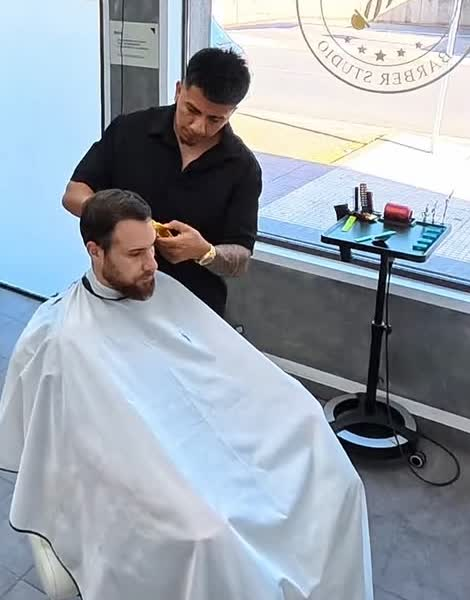
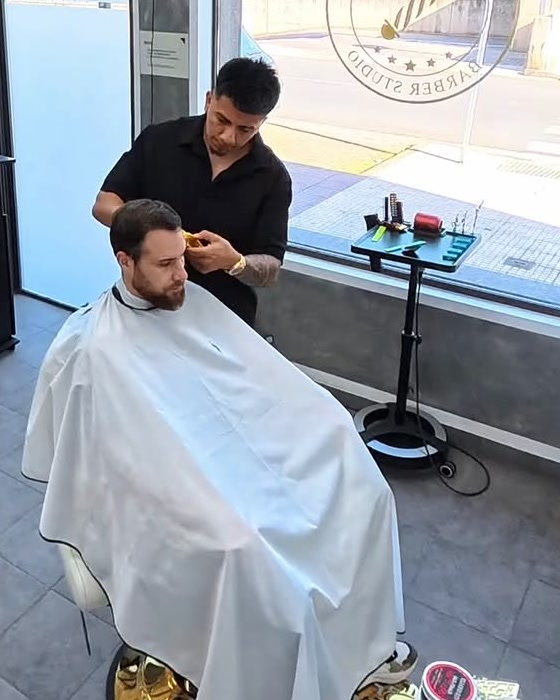
refactor: update 'estudio' section layout and styles
Enhanced the 'estudio' section in index.html with new class names and layout adjustments. Updated CSS for improved grid layout, added new styles for the portrait and credit elements, and adjusted image dimensions. Replaced the existing images with updated versions for better quality.

diff --git a/src/styles/app.css b/src/styles/app.css
@@ -389,37 +389,88 @@
   }
 
   /* -------------------------------------------------------------------------
-     Marcos que citan el doble filete del sello §13.3
+     #estudio — retrato editorial, velo §13.2, filete recto §13.3
      ------------------------------------------------------------------------- */
 
-  .frame-circle {
-    position: relative;
-    border-radius: 9999px;
-    padding: 10px;
-    background-color: var(--color-black);
-    border: 1px solid var(--color-gold-deep);
+  .estudio-layout {
+    display: grid;
+    gap: 3rem;
+    align-items: center;
   }
 
-  .frame-circle::after {
+  @media (width >= 1024px) {
+    .estudio-layout {
+      grid-template-columns: minmax(0, 1fr) minmax(0, 28rem);
+      gap: 5.5rem;
+      min-height: 32rem;
+    }
+  }
+
+  .estudio-rule {
+    width: 2.5rem;
+    margin-block: 1.75rem 2rem;
+  }
+
+  .estudio-credit {
+    margin-top: 2rem;
+    font-family: var(--font-display);
+    font-size: 0.75rem;
+    font-weight: 600;
+    letter-spacing: 0.22em;
+    text-transform: uppercase;
+    color: var(--color-gold-deep);
+  }
+
+  .estudio-portrait {
+    position: relative;
+    margin: 0 auto;
+    width: 100%;
+    max-width: 28rem;
+    padding: 8px;
+    background-color: var(--color-black);
+    border: 1px solid color-mix(in srgb, var(--color-gold-deep) 50%, transparent);
+  }
+
+  .estudio-portrait::before {
     content: "";
     position: absolute;
-    inset: 4px;
-    border-radius: 9999px;
-    border: 1px solid color-mix(in srgb, var(--color-gold-deep) 55%, transparent);
+    inset: 3px;
+    border: 1px solid color-mix(in srgb, var(--color-gold-deep) 32%, transparent);
     pointer-events: none;
+    z-index: 2;
   }
 
-  .frame-circle picture {
+  .estudio-portrait::after {
+    content: "";
+    position: absolute;
+    inset: 8px;
+    z-index: 1;
+    pointer-events: none;
+    background:
+      linear-gradient(
+        to top,
+        color-mix(in srgb, var(--color-black) 62%, transparent) 0%,
+        transparent 44%
+      ),
+      linear-gradient(
+        to right,
+        color-mix(in srgb, var(--color-black) 24%, transparent) 0%,
+        transparent 52%
+      );
+  }
+
+  .estudio-portrait picture {
     display: block;
-    width: 100%;
-    height: 100%;
+    aspect-ratio: 4 / 5;
+    overflow: hidden;
   }
 
-  .frame-circle img {
-    border-radius: 9999px;
+  .estudio-portrait img {
     width: 100%;
     height: 100%;
     object-fit: cover;
+    object-position: 48% 18%;
+    filter: saturate(0.7) brightness(0.76) contrast(1.08);
   }
 
   .frame-rect {

diff --git a/index.html b/index.html
@@ -155,19 +155,20 @@
       <!-- =================================================================
            2. #estudio
            ================================================================= -->
-      <section id="estudio" class="section-y bg-black">
-        <div class="shell grid items-center gap-14 lg:grid-cols-[1fr_360px] lg:gap-20">
-          <div data-reveal>
+      <section id="estudio" class="estudio section-y bg-black">
+        <div class="shell estudio-layout">
+          <div class="estudio-copy" data-reveal>
             <p class="kicker">Logroño</p>
             <h2 class="h2 mt-4">El estudio</h2>
-            <p class="lead mt-6">
+            <hr class="rule estudio-rule" />
+            <p class="lead">
               Estudio de barbería en Santa Justa. Corte, barba y diseño a máquina, sin
               prisa.
             </p>
-            <p class="mt-6 text-ivory/70">Jey.</p>
+            <p class="estudio-credit">Jey</p>
 
             <a
-              class="rating mt-10"
+              class="rating mt-8"
               href="https://www.google.com/maps/place/Prestige+Barber+Studio/@42.462908,-2.4571974,17z/data=!4m8!3m7!1s0xd5aab9047789883:0x2bd7ebc4b786b460!8m2!3d42.462908!4d-2.4571974!9m1!1b1"
               target="_blank"
               rel="noopener"
@@ -180,13 +181,13 @@
             </a>
           </div>
 
-          <figure class="frame-circle mx-auto aspect-square w-full max-w-[360px]" data-reveal>
+          <figure class="estudio-portrait" data-reveal>
             <picture>
               <source type="image/webp" srcset="/assets/photo/jey-trabajando.webp" />
               <img
                 src="/assets/photo/jey-trabajando.jpg"
-                width="470"
-                height="600"
+                width="560"
+                height="700"
                 loading="lazy"
                 decoding="async"
                 alt="Jey cortando el pelo a un cliente junto al ventanal del estudio"
